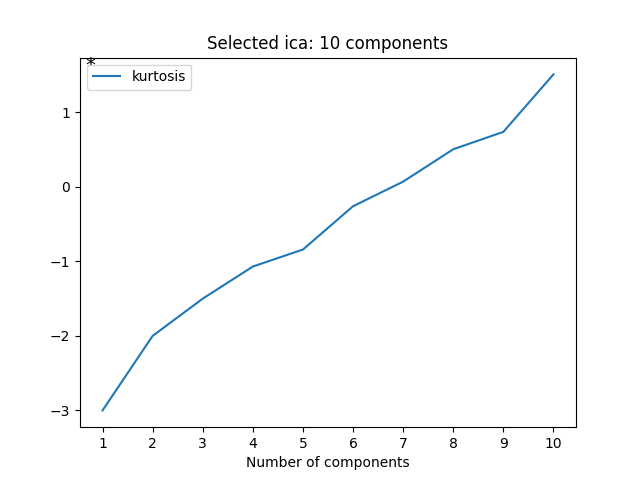
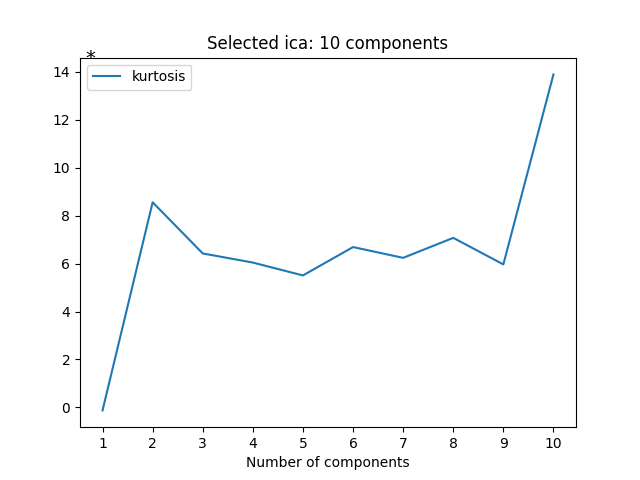
fix ica kurtosis plots

diff --git a/P3-UL/main.py b/P3-UL/main.py
@@ -564,8 +564,7 @@ def plot_ica_curve(data, n_components_range = None):
         # Fit a Gaussian mixture with EM
         ica = FastICA(n_components=n_components, max_iter=500, random_state=0)
         transformed = ica.fit_transform(data)
-        mixed = ica.mixing_
-        kurt_values = kurtosis(mixed, axis=1)
+        kurt_values = kurtosis(transformed, axis=0)
         kurtosis_vals.append(np.mean(kurt_values))
         if kurtosis_vals[-1] > highest_kurtosis:
             highest_kurtosis = kurtosis_vals[-1]
@@ -589,7 +588,7 @@ def plot_ica_curve(data, n_components_range = None):
 
     plt.title(f'Selected ica: {best_gmm.n_components} components')
 
-    kurtosis_vals = kurtosis(best_gmm.mixing_, axis=1)
+    kurtosis_vals = kurtosis(best_gmm.fit_transform(data), axis=0)
 
     plt.figure()
     bars = []
@@ -611,10 +610,14 @@ def run_ica(data_train, n_components = None, n_components_range = None):
         print()
         return data_train
     else:
-        ica = FastICA(n_components=3)
-        S_ = ica.fit_transform(data_train)  # Reconstruct signals
-        A_ = ica.mixing_  # Get estimated mixing matrix
-        # something something kurtosis and reconstruction error
+        ica = FastICA(n_components=n_components, max_iter=500, random_state=0)
+        transformed = ica.fit_transform(data_train)
+
+        # get reconstruction error
+
+        # pull the identified components out of full data
+
+        return transformed
     pass
 
 
@@ -652,10 +655,10 @@ if __name__ == '__main__':
     # em_2 = run_em(data_train_2, label_train_2, components=12, type="full")
 
     # dimensionality reduction
-    pca_1 = run_pca(data_train_1, components=6)
-    pca_2 = run_pca(data_train_2, components=6)
-    ica_1 = run_ica(data_train_1, n_components=11)
-    ica_2 = run_ica(data_train_2, n_components=10)
+    # pca_1 = run_pca(data_train_1, components=6)
+    # pca_2 = run_pca(data_train_2, components=6)
+    ica_1 = run_ica(data_train_1)#, n_components=11)
+    ica_2 = run_ica(data_train_2)#, n_components=10)
     # rca_1 = run_rca(data_train_1)
     # rca_2 = run_rca(data_train_2)
     # lda_1 = run_lda(data_train_1)
@@ -673,22 +676,22 @@ if __name__ == '__main__':
     # pca_em_2 = run_em(pca_2, label_train_2, n_components=12)
 
     # ICA
-    # ica_kmeans_1 = run_k_means(ica_1)
-    # ica_kmeans_2 = run_k_means(ica_2)
-    # ica_em_1 = run_em(ica_1)
-    # ica_em_2 = run_em(ica_2)
+    # ica_kmeans_1 = run_k_means(ica_1, label_train_1)
+    # ica_kmeans_2 = run_k_means(ica_2, label_train_2)
+    # ica_em_1 = run_em(ica_1, label_train_1)
+    # ica_em_2 = run_em(ica_2, label_train_2)
 
     # RCA
-    # rca_kmeans_1 = run_k_means(rca_1)
-    # rca_kmeans_2 = run_k_means(rca_2)
-    # rca_em_1 = run_em(rca_1)
-    # rca_em_2 = run_em(rca_2)
+    # rca_kmeans_1 = run_k_means(rca_1, label_train_1)
+    # rca_kmeans_2 = run_k_means(rca_2, label_train_2)
+    # rca_em_1 = run_em(rca_1, label_train_1)
+    # rca_em_2 = run_em(rca_2, label_train_2)
 
     # LDA
-    # lda_kmeans_1 = run_k_means(lda_1)
-    # lda_kmeans_2 = run_k_means(lda_2)
-    # lda_em_1 = run_em(lda_1)
-    # lda_em_2 = run_em(lda_2)
+    # lda_kmeans_1 = run_k_means(lda_1, label_train_1)
+    # lda_kmeans_2 = run_k_means(lda_2, label_train_2)
+    # lda_em_1 = run_em(lda_1, label_train_1)
+    # lda_em_2 = run_em(lda_2, label_train_2)
 
     plt.show()
     print()
